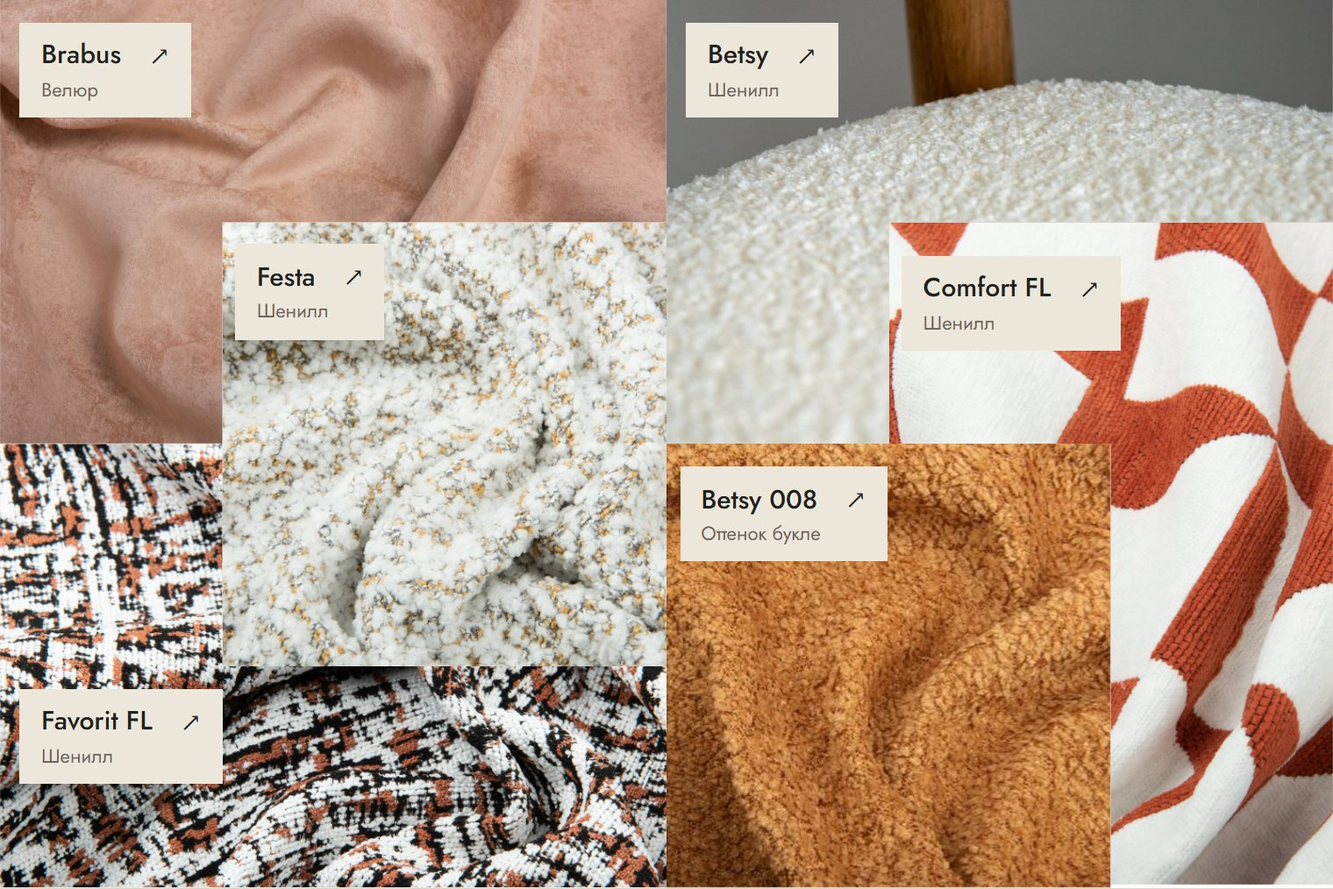
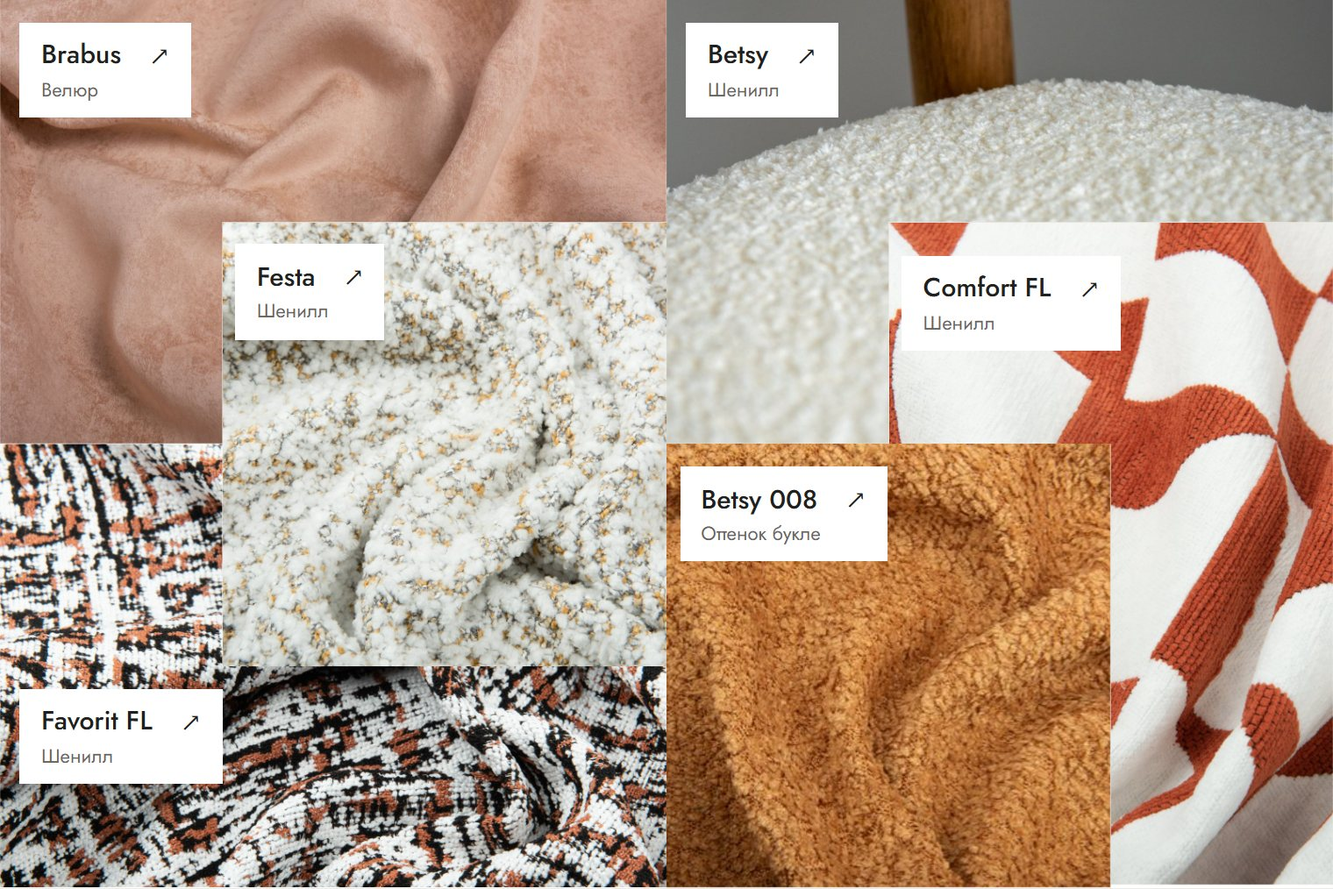
Вариант 4: белый фон

diff --git a/v4/index.html b/v4/index.html
@@ -1,1 +1,1 @@
-<!doctype html><html lang="ru"><head><meta charset="utf-8"><meta name="viewport" content="width=device-width,initial-scale=1"><meta name="robots" content="noindex,nofollow"><meta name="theme-color" content="#ede6da"><title>Fabric’s — текстильная мозаика · вариант 4</title><link rel="stylesheet" href="style.css"><link rel="stylesheet" href="mosaic.css"><link rel="stylesheet" href="accent-v4.css"></head><body id="top"><header class="header"><div class="wrap header-in"><a href="#top" class="logo" aria-label="Fabric’s — начало"><img src="assets/brand/logo_black.svg" alt="Fabric’s"></a><nav class="nav" aria-label="Основная навигация"><a href="#catalog">Коллекции</a><a href="#material">Ткань в деталях</a><a href="#samples">Образцы вживую</a></nav><button type="button" class="selection-button open-board">Моя подборка <b class="board-count">0</b></button><button class="menu-button" id="menu-button" type="button" aria-label="Открыть меню" aria-controls="mobile-nav" aria-expanded="false">☰</button></div></header><nav id="mobile-nav" class="mobile-nav" hidden aria-label="Мобильная навигация"><a href="#catalog">Коллекции</a><a href="#material">Ткань в деталях</a><a href="#samples">Образцы вживую</a></nav><main><section class="wrap mosaic-hero"><div class="mosaic-copy"><p class="eyebrow">Fabric’s / Текстильная мозаика</p><h1>СОБЕРИТЕ<br>СВОЙ<br><em>характер.</em></h1><p class="lead">Мебельные ткани, которые складываются в ваш интерьер. Выберите фактуру, рассмотрите оттенки и соберите свою подборку.</p><div class="actions"><a class="btn primary" href="#catalog">Выбрать ткань <span class="arrow" aria-hidden="true">↗</span></a><a class="btn" href="#samples">Посмотреть образцы</a></div></div><div class="mosaic-layout"><div class="mosaic-board" role="group" aria-label="Мозаика коллекций ткани"><button class="mosaic-piece" type="button" data-mosaic-name="Brabus" style="left:0%;top:0%;width:50%;height:50%;clip-path:polygon(0% 0%,33.33333333333333% 0%,66.66666666666666% 0%,100% 0%,100% 50%,66.66666666666666% 50%,33.33333333333333% 50%,33.33333333333333% 100%,0% 100%,0% 50%);--piece-delay:0ms" aria-label="Открыть Brabus и посмотреть оттенки"><img class="mosaic-image" src="assets/brand_photos/Brabus_IMG_7314.jpg" alt=""><span class="mosaic-tag" style="left:3%;top:5%"><strong>Brabus</strong><small>Велюр</small></span></button><button class="mosaic-piece" type="button" data-mosaic-name="Betsy" style="left:50%;top:0%;width:50%;height:50%;clip-path:polygon(0% 0%,33.33333333333333% 0%,66.66666666666666% 0%,100% 0%,100% 50%,66.66666666666666% 50%,33.33333333333333% 50%,33.33333333333333% 100%,0% 100%,0% 50%);--piece-delay:55ms" aria-label="Открыть Betsy и посмотреть оттенки"><img class="mosaic-image" src="assets/brand_photos/Betsy_DSC_2641.jpg" alt=""><span class="mosaic-tag" style="left:3%;top:5%"><strong>Betsy</strong><small>Шенилл</small></span></button><button class="mosaic-piece" type="button" data-mosaic-name="Festa" style="left:16.666666666666664%;top:25%;width:33.33333333333333%;height:50%;clip-path:polygon(0% 0%,50% 0%,100% 0%,100% 50%,100% 100%,50% 100%,0% 100%,0% 50%);--piece-delay:110ms" aria-label="Открыть Festa и посмотреть оттенки"><img class="mosaic-image" src="assets/brand_photos/Festa_DSC_2971.jpg" alt=""><span class="mosaic-tag" style="left:3%;top:5%"><strong>Festa</strong><small>Шенилл</small></span></button><button class="mosaic-piece" type="button" data-mosaic-name="Comfort FL" style="left:66.66666666666666%;top:25%;width:33.33333333333333%;height:75%;clip-path:polygon(0% 0%,50% 0%,100% 0%,100% 33.33333333333333%,100% 66.66666666666666%,100% 100%,50% 100%,50% 66.66666666666666%,50% 33.33333333333333%,0% 33.33333333333333%);--piece-delay:165ms" aria-label="Открыть Comfort FL и посмотреть оттенки"><img class="mosaic-image" src="assets/brand_photos/Comfort_FL_DSC_2892.jpg" alt=""><span class="mosaic-tag" style="left:3%;top:5%"><strong>Comfort FL</strong><small>Шенилл</small></span></button><button class="mosaic-piece" type="button" data-mosaic-name="Favorit FL" style="left:0%;top:50%;width:50%;height:50%;clip-path:polygon(0% 0%,33.33333333333333% 0%,33.33333333333333% 50%,66.66666666666666% 50%,100% 50%,100% 100%,66.66666666666666% 100%,33.33333333333333% 100%,0% 100%,0% 50%);--piece-delay:220ms" aria-label="Открыть Favorit FL и посмотреть оттенки"><img class="mosaic-image" src="assets/brand_photos/Favorit_FL_DSC_2937.jpg" alt=""><span class="mosaic-tag" style="left:3%;top:55%"><strong>Favorit FL</strong><small>Шенилл</small></span></button><button class="mosaic-piece" type="button" data-mosaic-name="Betsy" data-mosaic-shade="008" style="left:50%;top:50%;width:33.33333333333333%;height:50%;clip-path:polygon(0% 0%,50% 0%,100% 0%,100% 50%,100% 100%,50% 100%,0% 100%,0% 50%);--piece-delay:275ms" aria-label="Открыть Betsy 008 и посмотреть оттенки"><img class="mosaic-image" src="assets/betsy/008_draped.jpg" alt=""><span class="mosaic-tag" style="left:3%;top:5%"><strong>Betsy 008</strong><small>Оттенок букле</small></span></button></div><div class="mosaic-caption"><span>Каждый блок — своя фактура</span><span>Откройте коллекцию, чтобы выбрать оттенок ↗</span></div></div></section><section class="section wrap" id="catalog"><div class="section-title"><div><p class="index-label">01 / НАЙТИ СВОЮ ФАКТУРУ</p><h2>Коллекции в фокусе</h2></div><p>От спокойного букле до выразительного рисунка. Откройте коллекцию и выберите оттенки.</p></div><div class="catalog-tools"><div class="filters" aria-label="Фильтр коллекций"><button data-filter="all" type="button" aria-pressed="true">Все</button><button data-filter="texture" type="button" aria-pressed="false">Мягкие фактуры</button><button data-filter="velvet" type="button" aria-pressed="false">Велюр</button><button data-filter="pattern" type="button" aria-pressed="false">С рисунком</button></div><form class="search" id="search-form" role="search"><input id="search" type="search" aria-label="Найти коллекцию" placeholder="Название или вид ткани"><button aria-label="Найти" type="submit">⌕</button></form></div><div id="grid" class="grid"></div><p id="empty" class="empty" hidden role="status">Таких коллекций в подборке нет. Попробуйте другое название или выберите «Все».</p><div class="catalog-bottom"><span id="result-count" aria-live="polite"></span><span>Весь каталог из 54 коллекций — на новом сайте</span></div></section><section class="story" id="material"><div class="wrap section story-layout"><figure class="story-photo reveal"><img loading="lazy" src="assets/brand_photos/Comfort_FL_DSC_3168.jpg" alt="Ткань Comfort FL, сложенная стопкой"><figcaption>Comfort FL / ткань, которую хочется потрогать</figcaption></figure><div class="story-text reveal"><p class="eyebrow">02 / МАТЕРИАЛ В ЖИЗНИ</p><h2 class="quote">Сначала прикоснуться.<br>Потом — выбрать.</h2><p>На экране можно рассмотреть переплетение и сравнить оттенки. Образец поможет почувствовать мягкость ткани и увидеть цвет при вашем освещении.</p><p>Соберите понравившиеся оттенки в подборку — её удобно взять на встречу с консультантом.</p><button class="btn open-board" type="button">Открыть мою подборку <span class="arrow" aria-hidden="true">↗</span></button></div></div></section><section id="samples" class="section wrap"><div class="section-title"><div><p class="index-label">03 / ОТ ИДЕИ К ВАШЕЙ МЕБЕЛИ</p><h2>Выбор начинается<br>с образца</h2></div><p>Образцы коллекций можно посмотреть у дилеров Fabric’s в разных областях Беларуси.</p></div><div class="steps"><article class="step reveal"><b>01</b><h3>Найдите фактуру</h3><p>Сравните ткани по внешнему виду и характеристикам. Откройте несколько коллекций.</p></article><article class="step reveal"><b>02</b><h3>Соберите оттенки</h3><p>Добавьте подходящие образцы в подборку и скопируйте список для консультанта.</p></article><article class="step reveal"><b>03</b><h3>Посмотрите вживую</h3><p>Уточните у команды, где посмотреть выбранные образцы и как оформить заказ.</p><a href="mailto:info@ffm.by">Связаться с Fabric’s ↗</a></article></div></section><div class="wrap facts-end"><div class="facts"><span><b>54</b>коллекции тканей</span><span><b>861</b>оттенок в каталоге</span><span><b>8</b>дилеров в Беларуси</span></div></div></main><footer class="footer"><div class="wrap"><div class="footer-grid"><div><a class="logo" href="#top"><img src="assets/brand/logo_white.svg" alt="Fabric’s"></a><p>Ткани и экокожа для мебели.<br>Для дома, общественных пространств и ваших идей.</p></div><div><a href="#catalog">Коллекции</a><a href="#material">Ткань в деталях</a><a href="#samples">Образцы вживую</a></div><div><a href="mailto:info@ffm.by">info@ffm.by</a><a href="tel:+375296259965">+375 29 625 99 65</a></div></div><div class="fine"><span>Вариант 4 · Текстильная мозаика · 30.10.2026</span><span>Фотографии Fabric’s · данные каталога на 26.10.2026</span></div></div></footer><dialog id="detail" aria-labelledby="detail-name"><button type="button" class="dialog-close" data-close aria-label="Закрыть коллекцию">×</button><div class="detail-layout"><div class="detail-photo"><img id="detail-photo" alt=""></div><div class="detail-body"><p class="eyebrow" id="detail-category"></p><h2 id="detail-name"></h2><p id="detail-description"></p><div class="detail-name" id="shade-name"></div><div class="shade-grid" id="shades"></div><button class="btn primary" type="button" id="add-sample">Добавить образец +</button><div class="specs" id="specs"></div><p class="external" id="catalog-link">Полная страница коллекции — на новом сайте</p></div></div></dialog><dialog id="board" aria-labelledby="board-title"><button type="button" class="dialog-close" data-close aria-label="Закрыть подборку">×</button><div class="board-body"><p class="eyebrow">ВАШИ МАТЕРИАЛЫ</p><h2 id="board-title">Моя подборка</h2><p>Сохраните названия коллекций и номера оттенков. Готовый список можно передать консультанту.</p><p id="board-empty">Пока здесь пусто. Откройте коллекцию и добавьте понравившийся оттенок.</p><div id="board-items"></div><button id="copy" class="btn primary" type="button">Скопировать список ↗</button><p id="copy-status" class="copy-status" role="status"></p></div></dialog><script type="application/json" id="data">[{"name":"Brabus","group":"velvet","description":"Велюр с мягким ворсом и характерной игрой света.","index":"01","cat":"Велюр","href":"https://catalog.ffm.by/collections/velour/brabus","totalShades":30,"specs":{"composition":"100% Полиэстер","martindale":"100 000 циклов","width":"140 +/- 2 см","density":"480 гр/м.кв."},"photo":"assets/brand_photos/Brabus_IMG_7312.jpg","shades":[{"label":"1","flat":"assets/68yBhmNtJbd.jpg","draped":"assets/AcpM5PKd6ey.jpg"},{"label":"2","flat":"assets/BHJ1Fyk4ANf.jpg","draped":"assets/2fdezL4SlyB.jpg"},{"label":"3","flat":"assets/MF28bZw3nco.jpg","draped":"assets/dkE8RPS6Aea.jpg"},{"label":"4","flat":"assets/cxxRksPBcmh.jpg","draped":"assets/kGQZ5zbik7S.jpg"},{"label":"5","flat":"assets/WvmrWXStRBg.jpg","draped":"assets/5Xm3thjydPZ.jpg"},{"label":"6","flat":"assets/huwuX3Bytcd.jpg","draped":"assets/IOPoNtSFOej.jpg"},{"label":"7","flat":"assets/emMPldZV9MZ.jpg","draped":"assets/3t6cvB5sw0U.jpg"},{"label":"8","flat":"assets/q2L9ht2QMjz.jpg","draped":"assets/1cVaC4N7qWV.jpg"},{"label":"9","flat":"assets/8ReMaghEupU.jpg","draped":"assets/IBQUtiR2kHJ.jpg"},{"label":"10","flat":"assets/KD74NvC5GRr.jpg","draped":"assets/loEXWwWyFH3.jpg"},{"label":"11","flat":"assets/gVVtwkj0Kk2.jpg","draped":"assets/EsHc2T8Y7l1.jpg"},{"label":"12","flat":"assets/CO3c3ajxV4K.jpg","draped":"assets/uGMPmMphM3T.jpg"},{"label":"13","flat":"assets/rTX41ZVM3hr.jpg","draped":"assets/a55D1oxTIhU.jpg"},{"label":"14","flat":"assets/oAA8BiZQQOm.jpg","draped":"assets/LoEB1niXhKf.jpg"},{"label":"15","flat":"assets/7Bo8FwcByjp.jpg","draped":"assets/bCfpE9e1G4s.jpg"},{"label":"16","flat":"assets/YZDIkroWT0P.jpg","draped":"assets/UFI61tSL6Hm.jpg"},{"label":"17","flat":"assets/LIuugSAndNU.jpg","draped":"assets/xrOQKmYY0Wy.jpg"},{"label":"18","flat":"assets/lU8BbPIQ75Y.jpg","draped":"assets/lK2IwVNcXSb.jpg"},{"label":"19","flat":"assets/WV1X2tJdMn9.jpg","draped":"assets/ZxnduSdrRNx.jpg"},{"label":"20","flat":"assets/HM7FSiqnMA9.jpg","draped":"assets/Eqj1UYGJPhl.jpg"},{"label":"21","flat":"assets/pHNwGDBhrCk.jpg","draped":"assets/8o88MtJhdiS.jpg"},{"label":"22","flat":"assets/6HC5lCp19fZ.jpg","draped":"assets/1pX3PPDHcOW.jpg"},{"label":"23","flat":"assets/GIsXyAXY4np.jpg","draped":"assets/i1noCQRFRh1.jpg"},{"label":"24","flat":"assets/4CEVBKRXlBa.jpg","draped":"assets/y41x9onWPJt.jpg"},{"label":"25","flat":"assets/q0FiK6IdSjB.jpg","draped":"assets/ln1NDp9maI6.jpg"},{"label":"26","flat":"assets/zNaU6ahGxqI.jpg","draped":"assets/m1Z1ctisSiJ.jpg"},{"label":"27","flat":"assets/Sw5mJhbCPZj.jpg","draped":"assets/AY3kISqClLU.jpg"},{"label":"28","flat":"assets/jEX6PUnvC1Q.jpg","draped":"assets/PIxEoEQJCmT.jpg"},{"label":"29","flat":"assets/3RWBJscCJxF.jpg","draped":"assets/HU9mc4i8dBr.jpg"},{"label":"30","flat":"assets/1tdoNtP5J8F.jpg","draped":"assets/fhWvoHJdDX1.jpg"}]},{"name":"Betsy","group":"texture","description":"Букле на флисовой основе. Мелкая фактура и палитра для спокойных интерьеров.","index":"02","cat":"Шенилл","href":"https://catalog.ffm.by/collections/%D1%81henille/betsy","totalShades":15,"specs":{"composition":"100% полиэстер","martindale":"80 000 циклов","width":"140 +/- 2 см","density":"510 гр/м.кв."},"photo":"assets/brand_photos/Betsy_DSC_2641.jpg","shades":[{"label":"001","flat":"assets/betsy/001_flat.jpg","draped":"assets/betsy/001_draped.jpg"},{"label":"002","flat":"assets/betsy/002_flat.jpg","draped":"assets/betsy/002_draped.jpg"},{"label":"003","flat":"assets/betsy/003_flat.jpg","draped":"assets/betsy/003_draped.jpg"},{"label":"004","flat":"assets/betsy/004_flat.jpg","draped":"assets/betsy/004_draped.jpg"},{"label":"005","flat":"assets/betsy/005_flat.jpg","draped":"assets/betsy/005_draped.jpg"},{"label":"006","flat":"assets/betsy/006_flat.jpg","draped":"assets/betsy/006_draped.jpg"},{"label":"007","flat":"assets/betsy/007_flat.jpg","draped":"assets/betsy/007_draped.jpg"},{"label":"008","flat":"assets/betsy/008_flat.jpg","draped":"assets/betsy/008_draped.jpg"},{"label":"009","flat":"assets/betsy/009_flat.jpg","draped":"assets/betsy/009_draped.jpg"},{"label":"010","flat":"assets/betsy/010_flat.jpg","draped":"assets/betsy/010_draped.jpg"},{"label":"011","flat":"assets/betsy/011_flat.jpg","draped":"assets/betsy/011_draped.jpg"},{"label":"012","flat":"assets/betsy/012_flat.jpg","draped":"assets/betsy/012_draped.jpg"},{"label":"013","flat":"assets/betsy/013_flat.jpg","draped":"assets/betsy/013_draped.jpg"},{"label":"014","flat":"assets/betsy/014_flat.jpg","draped":"assets/betsy/014_draped.jpg"},{"label":"015","flat":"assets/betsy/015_flat.jpg","draped":"assets/betsy/015_draped.jpg"}]},{"name":"Festa","group":"texture","description":"Рельефное переплетение с мелкими цветными вкраплениями.","index":"03","cat":"Шенилл","href":"https://catalog.ffm.by/collections/%D1%81henille/festa","totalShades":6,"specs":{"composition":"100% полиэстер","martindale":"120 000 циклов","width":"140 +/- 2 см","density":"700 гр/м.кв."},"photo":"assets/brand_photos/Festa_DSC_3090.jpg","shades":[{"label":"1","flat":"assets/bXqbhzA6EHF.jpg","draped":"assets/UaCdRR8ijOU.jpg"},{"label":"2","flat":"assets/AMGe37fTVQR.jpg","draped":"assets/Wil9k7xggf6.jpg"},{"label":"3","flat":"assets/GcdiHe6XS2w.jpg","draped":"assets/t0aC6W0veHK.jpg"},{"label":"4","flat":"assets/KD4t7nBjXao.jpg","draped":"assets/7fNJUu1zCES.jpg"},{"label":"5","flat":"assets/t42LXaEx5i1.jpg","draped":"assets/4s2EZQygeT1.jpg"},{"label":"6","flat":"assets/oHJVsiZdmm3.jpg","draped":"assets/MRoCJkLwf03.jpg"}]},{"name":"Comfort FL","group":"pattern","description":"Геометрический рисунок и выразительная тканая фактура.","index":"04","cat":"Шенилл","href":"https://catalog.ffm.by/collections/%D1%81henille/comfort-fl","totalShades":5,"specs":{"composition":"100% полиэстер","martindale":"100 000 циклов","width":"140 +/- 2 см","density":"620 гр/м.кв."},"photo":"assets/brand_photos/Comfort_FL_DSC_2918.jpg","shades":[{"label":"100","flat":"assets/1o1ODz5paly.jpg","draped":"assets/1fH6MVNd4vd.jpg"},{"label":"200","flat":"assets/5IkQLxvgnLS.jpg","draped":"assets/BKFRAtqTn2M.jpg"},{"label":"300","flat":"assets/xxeIkOEFQh7.jpg","draped":"assets/TQU1MazxryY.jpg"},{"label":"400","flat":"assets/4Y0vTivGf57.jpg","draped":"assets/MVASV8leIuh.jpg"},{"label":"500","flat":"assets/7jXgarknLcI.jpg","draped":"assets/0C4IFl9RxXV.jpg"}]},{"name":"Favorit FL","group":"pattern","description":"Многоцветное переплетение для мебели с характером.","index":"05","cat":"Шенилл","href":"https://catalog.ffm.by/collections/%D1%81henille/favorit-fl","totalShades":5,"specs":{"composition":"100% полиэстер","martindale":"100 000 циклов","width":"140 +/- 2 см","density":"580 гр/м.кв."},"photo":"assets/brand_photos/Favorit_FL_DSC_2933.jpg","shades":[{"label":"100","flat":"assets/WZsSqYdA60F.jpg","draped":"assets/kXdiDEdL5lB.jpg"},{"label":"200","flat":"assets/ZEoxnFmn0nk.jpg","draped":"assets/ZWDZAOKXigc.jpg"},{"label":"300","flat":"assets/m9eBKYvji6z.jpg","draped":"assets/H2qfVND1Akv.jpg"},{"label":"400","flat":"assets/3jyIka899o0.jpg","draped":"assets/08MBXbIhUgl.jpg"},{"label":"500","flat":"assets/xhybBo0VfQY.jpg","draped":"assets/eEIRvUcpxzK.jpg"}]},{"name":"Lucky","group":"texture","description":"Коллекция мебельной ткани с широкой палитрой оттенков.","index":"06","cat":"Шенилл","href":"https://catalog.ffm.by/collections/%D1%81henille/lucky","totalShades":19,"specs":{"composition":"100% полиэстер","martindale":"100 000 циклов","width":"140 +/- 2 см","density":"420 гр/м.кв."},"photo":"assets/DvWnTEE6qoG.jpg","shades":[{"label":"2","flat":"assets/fDdqqQSILXX.jpg","draped":"assets/S54toQZCyao.jpg"},{"label":"3","flat":"assets/vWOBZXCn4qp.jpg","draped":"assets/Mx17tL8GeiS.jpg"},{"label":"4","flat":"assets/dGQPStbXrRm.jpg","draped":"assets/mX11dfktzPG.jpg"},{"label":"5","flat":"assets/XuvNH1U3X9c.jpg","draped":"assets/bZtfidU6rhF.jpg"},{"label":"6","flat":"assets/vOQGIFGYUyl.jpg","draped":"assets/fbIlqGeu8Zf.jpg"},{"label":"7","flat":"assets/919OcaaewHw.jpg","draped":"assets/DvWnTEE6qoG.jpg"}]}]</script><script src="app.js"></script></body></html>
+<!doctype html><html lang="ru"><head><meta charset="utf-8"><meta name="viewport" content="width=device-width,initial-scale=1"><meta name="robots" content="noindex,nofollow"><meta name="theme-color" content="#ffffff"><title>Fabric’s — текстильная мозаика · вариант 4</title><link rel="stylesheet" href="style.css"><link rel="stylesheet" href="mosaic.css"><link rel="stylesheet" href="accent-v4.css"></head><body id="top"><header class="header"><div class="wrap header-in"><a href="#top" class="logo" aria-label="Fabric’s — начало"><img src="assets/brand/logo_black.svg" alt="Fabric’s"></a><nav class="nav" aria-label="Основная навигация"><a href="#catalog">Коллекции</a><a href="#material">Ткань в деталях</a><a href="#samples">Образцы вживую</a></nav><button type="button" class="selection-button open-board">Моя подборка <b class="board-count">0</b></button><button class="menu-button" id="menu-button" type="button" aria-label="Открыть меню" aria-controls="mobile-nav" aria-expanded="false">☰</button></div></header><nav id="mobile-nav" class="mobile-nav" hidden aria-label="Мобильная навигация"><a href="#catalog">Коллекции</a><a href="#material">Ткань в деталях</a><a href="#samples">Образцы вживую</a></nav><main><section class="wrap mosaic-hero"><div class="mosaic-copy"><p class="eyebrow">Fabric’s / Текстильная мозаика</p><h1>СОБЕРИТЕ<br>СВОЙ<br><em>характер.</em></h1><p class="lead">Мебельные ткани, которые складываются в ваш интерьер. Выберите фактуру, рассмотрите оттенки и соберите свою подборку.</p><div class="actions"><a class="btn primary" href="#catalog">Выбрать ткань <span class="arrow" aria-hidden="true">↗</span></a><a class="btn" href="#samples">Посмотреть образцы</a></div></div><div class="mosaic-layout"><div class="mosaic-board" role="group" aria-label="Мозаика коллекций ткани"><button class="mosaic-piece" type="button" data-mosaic-name="Brabus" style="left:0%;top:0%;width:50%;height:50%;clip-path:polygon(0% 0%,33.33333333333333% 0%,66.66666666666666% 0%,100% 0%,100% 50%,66.66666666666666% 50%,33.33333333333333% 50%,33.33333333333333% 100%,0% 100%,0% 50%);--piece-delay:0ms" aria-label="Открыть Brabus и посмотреть оттенки"><img class="mosaic-image" src="assets/brand_photos/Brabus_IMG_7314.jpg" alt=""><span class="mosaic-tag" style="left:3%;top:5%"><strong>Brabus</strong><small>Велюр</small></span></button><button class="mosaic-piece" type="button" data-mosaic-name="Betsy" style="left:50%;top:0%;width:50%;height:50%;clip-path:polygon(0% 0%,33.33333333333333% 0%,66.66666666666666% 0%,100% 0%,100% 50%,66.66666666666666% 50%,33.33333333333333% 50%,33.33333333333333% 100%,0% 100%,0% 50%);--piece-delay:55ms" aria-label="Открыть Betsy и посмотреть оттенки"><img class="mosaic-image" src="assets/brand_photos/Betsy_DSC_2641.jpg" alt=""><span class="mosaic-tag" style="left:3%;top:5%"><strong>Betsy</strong><small>Шенилл</small></span></button><button class="mosaic-piece" type="button" data-mosaic-name="Festa" style="left:16.666666666666664%;top:25%;width:33.33333333333333%;height:50%;clip-path:polygon(0% 0%,50% 0%,100% 0%,100% 50%,100% 100%,50% 100%,0% 100%,0% 50%);--piece-delay:110ms" aria-label="Открыть Festa и посмотреть оттенки"><img class="mosaic-image" src="assets/brand_photos/Festa_DSC_2971.jpg" alt=""><span class="mosaic-tag" style="left:3%;top:5%"><strong>Festa</strong><small>Шенилл</small></span></button><button class="mosaic-piece" type="button" data-mosaic-name="Comfort FL" style="left:66.66666666666666%;top:25%;width:33.33333333333333%;height:75%;clip-path:polygon(0% 0%,50% 0%,100% 0%,100% 33.33333333333333%,100% 66.66666666666666%,100% 100%,50% 100%,50% 66.66666666666666%,50% 33.33333333333333%,0% 33.33333333333333%);--piece-delay:165ms" aria-label="Открыть Comfort FL и посмотреть оттенки"><img class="mosaic-image" src="assets/brand_photos/Comfort_FL_DSC_2892.jpg" alt=""><span class="mosaic-tag" style="left:3%;top:5%"><strong>Comfort FL</strong><small>Шенилл</small></span></button><button class="mosaic-piece" type="button" data-mosaic-name="Favorit FL" style="left:0%;top:50%;width:50%;height:50%;clip-path:polygon(0% 0%,33.33333333333333% 0%,33.33333333333333% 50%,66.66666666666666% 50%,100% 50%,100% 100%,66.66666666666666% 100%,33.33333333333333% 100%,0% 100%,0% 50%);--piece-delay:220ms" aria-label="Открыть Favorit FL и посмотреть оттенки"><img class="mosaic-image" src="assets/brand_photos/Favorit_FL_DSC_2937.jpg" alt=""><span class="mosaic-tag" style="left:3%;top:55%"><strong>Favorit FL</strong><small>Шенилл</small></span></button><button class="mosaic-piece" type="button" data-mosaic-name="Betsy" data-mosaic-shade="008" style="left:50%;top:50%;width:33.33333333333333%;height:50%;clip-path:polygon(0% 0%,50% 0%,100% 0%,100% 50%,100% 100%,50% 100%,0% 100%,0% 50%);--piece-delay:275ms" aria-label="Открыть Betsy 008 и посмотреть оттенки"><img class="mosaic-image" src="assets/betsy/008_draped.jpg" alt=""><span class="mosaic-tag" style="left:3%;top:5%"><strong>Betsy 008</strong><small>Оттенок букле</small></span></button></div><div class="mosaic-caption"><span>Каждый блок — своя фактура</span><span>Откройте коллекцию, чтобы выбрать оттенок ↗</span></div></div></section><section class="section wrap" id="catalog"><div class="section-title"><div><p class="index-label">01 / НАЙТИ СВОЮ ФАКТУРУ</p><h2>Коллекции в фокусе</h2></div><p>От спокойного букле до выразительного рисунка. Откройте коллекцию и выберите оттенки.</p></div><div class="catalog-tools"><div class="filters" aria-label="Фильтр коллекций"><button data-filter="all" type="button" aria-pressed="true">Все</button><button data-filter="texture" type="button" aria-pressed="false">Мягкие фактуры</button><button data-filter="velvet" type="button" aria-pressed="false">Велюр</button><button data-filter="pattern" type="button" aria-pressed="false">С рисунком</button></div><form class="search" id="search-form" role="search"><input id="search" type="search" aria-label="Найти коллекцию" placeholder="Название или вид ткани"><button aria-label="Найти" type="submit">⌕</button></form></div><div id="grid" class="grid"></div><p id="empty" class="empty" hidden role="status">Таких коллекций в подборке нет. Попробуйте другое название или выберите «Все».</p><div class="catalog-bottom"><span id="result-count" aria-live="polite"></span><span>Весь каталог из 54 коллекций — на новом сайте</span></div></section><section class="story" id="material"><div class="wrap section story-layout"><figure class="story-photo reveal"><img loading="lazy" src="assets/brand_photos/Comfort_FL_DSC_3168.jpg" alt="Ткань Comfort FL, сложенная стопкой"><figcaption>Comfort FL / ткань, которую хочется потрогать</figcaption></figure><div class="story-text reveal"><p class="eyebrow">02 / МАТЕРИАЛ В ЖИЗНИ</p><h2 class="quote">Сначала прикоснуться.<br>Потом — выбрать.</h2><p>На экране можно рассмотреть переплетение и сравнить оттенки. Образец поможет почувствовать мягкость ткани и увидеть цвет при вашем освещении.</p><p>Соберите понравившиеся оттенки в подборку — её удобно взять на встречу с консультантом.</p><button class="btn open-board" type="button">Открыть мою подборку <span class="arrow" aria-hidden="true">↗</span></button></div></div></section><section id="samples" class="section wrap"><div class="section-title"><div><p class="index-label">03 / ОТ ИДЕИ К ВАШЕЙ МЕБЕЛИ</p><h2>Выбор начинается<br>с образца</h2></div><p>Образцы коллекций можно посмотреть у дилеров Fabric’s в разных областях Беларуси.</p></div><div class="steps"><article class="step reveal"><b>01</b><h3>Найдите фактуру</h3><p>Сравните ткани по внешнему виду и характеристикам. Откройте несколько коллекций.</p></article><article class="step reveal"><b>02</b><h3>Соберите оттенки</h3><p>Добавьте подходящие образцы в подборку и скопируйте список для консультанта.</p></article><article class="step reveal"><b>03</b><h3>Посмотрите вживую</h3><p>Уточните у команды, где посмотреть выбранные образцы и как оформить заказ.</p><a href="mailto:info@ffm.by">Связаться с Fabric’s ↗</a></article></div></section><div class="wrap facts-end"><div class="facts"><span><b>54</b>коллекции тканей</span><span><b>861</b>оттенок в каталоге</span><span><b>8</b>дилеров в Беларуси</span></div></div></main><footer class="footer"><div class="wrap"><div class="footer-grid"><div><a class="logo" href="#top"><img src="assets/brand/logo_white.svg" alt="Fabric’s"></a><p>Ткани и экокожа для мебели.<br>Для дома, общественных пространств и ваших идей.</p></div><div><a href="#catalog">Коллекции</a><a href="#material">Ткань в деталях</a><a href="#samples">Образцы вживую</a></div><div><a href="mailto:info@ffm.by">info@ffm.by</a><a href="tel:+375296259965">+375 29 625 99 65</a></div></div><div class="fine"><span>Вариант 4 · Текстильная мозаика · 30.10.2026</span><span>Фотографии Fabric’s · данные каталога на 26.10.2026</span></div></div></footer><dialog id="detail" aria-labelledby="detail-name"><button type="button" class="dialog-close" data-close aria-label="Закрыть коллекцию">×</button><div class="detail-layout"><div class="detail-photo"><img id="detail-photo" alt=""></div><div class="detail-body"><p class="eyebrow" id="detail-category"></p><h2 id="detail-name"></h2><p id="detail-description"></p><div class="detail-name" id="shade-name"></div><div class="shade-grid" id="shades"></div><button class="btn primary" type="button" id="add-sample">Добавить образец +</button><div class="specs" id="specs"></div><p class="external" id="catalog-link">Полная страница коллекции — на новом сайте</p></div></div></dialog><dialog id="board" aria-labelledby="board-title"><button type="button" class="dialog-close" data-close aria-label="Закрыть подборку">×</button><div class="board-body"><p class="eyebrow">ВАШИ МАТЕРИАЛЫ</p><h2 id="board-title">Моя подборка</h2><p>Сохраните названия коллекций и номера оттенков. Готовый список можно передать консультанту.</p><p id="board-empty">Пока здесь пусто. Откройте коллекцию и добавьте понравившийся оттенок.</p><div id="board-items"></div><button id="copy" class="btn primary" type="button">Скопировать список ↗</button><p id="copy-status" class="copy-status" role="status"></p></div></dialog><script type="application/json" id="data">[{"name":"Brabus","group":"velvet","description":"Велюр с мягким ворсом и характерной игрой света.","index":"01","cat":"Велюр","href":"https://catalog.ffm.by/collections/velour/brabus","totalShades":30,"specs":{"composition":"100% Полиэстер","martindale":"100 000 циклов","width":"140 +/- 2 см","density":"480 гр/м.кв."},"photo":"assets/brand_photos/Brabus_IMG_7312.jpg","shades":[{"label":"1","flat":"assets/68yBhmNtJbd.jpg","draped":"assets/AcpM5PKd6ey.jpg"},{"label":"2","flat":"assets/BHJ1Fyk4ANf.jpg","draped":"assets/2fdezL4SlyB.jpg"},{"label":"3","flat":"assets/MF28bZw3nco.jpg","draped":"assets/dkE8RPS6Aea.jpg"},{"label":"4","flat":"assets/cxxRksPBcmh.jpg","draped":"assets/kGQZ5zbik7S.jpg"},{"label":"5","flat":"assets/WvmrWXStRBg.jpg","draped":"assets/5Xm3thjydPZ.jpg"},{"label":"6","flat":"assets/huwuX3Bytcd.jpg","draped":"assets/IOPoNtSFOej.jpg"},{"label":"7","flat":"assets/emMPldZV9MZ.jpg","draped":"assets/3t6cvB5sw0U.jpg"},{"label":"8","flat":"assets/q2L9ht2QMjz.jpg","draped":"assets/1cVaC4N7qWV.jpg"},{"label":"9","flat":"assets/8ReMaghEupU.jpg","draped":"assets/IBQUtiR2kHJ.jpg"},{"label":"10","flat":"assets/KD74NvC5GRr.jpg","draped":"assets/loEXWwWyFH3.jpg"},{"label":"11","flat":"assets/gVVtwkj0Kk2.jpg","draped":"assets/EsHc2T8Y7l1.jpg"},{"label":"12","flat":"assets/CO3c3ajxV4K.jpg","draped":"assets/uGMPmMphM3T.jpg"},{"label":"13","flat":"assets/rTX41ZVM3hr.jpg","draped":"assets/a55D1oxTIhU.jpg"},{"label":"14","flat":"assets/oAA8BiZQQOm.jpg","draped":"assets/LoEB1niXhKf.jpg"},{"label":"15","flat":"assets/7Bo8FwcByjp.jpg","draped":"assets/bCfpE9e1G4s.jpg"},{"label":"16","flat":"assets/YZDIkroWT0P.jpg","draped":"assets/UFI61tSL6Hm.jpg"},{"label":"17","flat":"assets/LIuugSAndNU.jpg","draped":"assets/xrOQKmYY0Wy.jpg"},{"label":"18","flat":"assets/lU8BbPIQ75Y.jpg","draped":"assets/lK2IwVNcXSb.jpg"},{"label":"19","flat":"assets/WV1X2tJdMn9.jpg","draped":"assets/ZxnduSdrRNx.jpg"},{"label":"20","flat":"assets/HM7FSiqnMA9.jpg","draped":"assets/Eqj1UYGJPhl.jpg"},{"label":"21","flat":"assets/pHNwGDBhrCk.jpg","draped":"assets/8o88MtJhdiS.jpg"},{"label":"22","flat":"assets/6HC5lCp19fZ.jpg","draped":"assets/1pX3PPDHcOW.jpg"},{"label":"23","flat":"assets/GIsXyAXY4np.jpg","draped":"assets/i1noCQRFRh1.jpg"},{"label":"24","flat":"assets/4CEVBKRXlBa.jpg","draped":"assets/y41x9onWPJt.jpg"},{"label":"25","flat":"assets/q0FiK6IdSjB.jpg","draped":"assets/ln1NDp9maI6.jpg"},{"label":"26","flat":"assets/zNaU6ahGxqI.jpg","draped":"assets/m1Z1ctisSiJ.jpg"},{"label":"27","flat":"assets/Sw5mJhbCPZj.jpg","draped":"assets/AY3kISqClLU.jpg"},{"label":"28","flat":"assets/jEX6PUnvC1Q.jpg","draped":"assets/PIxEoEQJCmT.jpg"},{"label":"29","flat":"assets/3RWBJscCJxF.jpg","draped":"assets/HU9mc4i8dBr.jpg"},{"label":"30","flat":"assets/1tdoNtP5J8F.jpg","draped":"assets/fhWvoHJdDX1.jpg"}]},{"name":"Betsy","group":"texture","description":"Букле на флисовой основе. Мелкая фактура и палитра для спокойных интерьеров.","index":"02","cat":"Шенилл","href":"https://catalog.ffm.by/collections/%D1%81henille/betsy","totalShades":15,"specs":{"composition":"100% полиэстер","martindale":"80 000 циклов","width":"140 +/- 2 см","density":"510 гр/м.кв."},"photo":"assets/brand_photos/Betsy_DSC_2641.jpg","shades":[{"label":"001","flat":"assets/betsy/001_flat.jpg","draped":"assets/betsy/001_draped.jpg"},{"label":"002","flat":"assets/betsy/002_flat.jpg","draped":"assets/betsy/002_draped.jpg"},{"label":"003","flat":"assets/betsy/003_flat.jpg","draped":"assets/betsy/003_draped.jpg"},{"label":"004","flat":"assets/betsy/004_flat.jpg","draped":"assets/betsy/004_draped.jpg"},{"label":"005","flat":"assets/betsy/005_flat.jpg","draped":"assets/betsy/005_draped.jpg"},{"label":"006","flat":"assets/betsy/006_flat.jpg","draped":"assets/betsy/006_draped.jpg"},{"label":"007","flat":"assets/betsy/007_flat.jpg","draped":"assets/betsy/007_draped.jpg"},{"label":"008","flat":"assets/betsy/008_flat.jpg","draped":"assets/betsy/008_draped.jpg"},{"label":"009","flat":"assets/betsy/009_flat.jpg","draped":"assets/betsy/009_draped.jpg"},{"label":"010","flat":"assets/betsy/010_flat.jpg","draped":"assets/betsy/010_draped.jpg"},{"label":"011","flat":"assets/betsy/011_flat.jpg","draped":"assets/betsy/011_draped.jpg"},{"label":"012","flat":"assets/betsy/012_flat.jpg","draped":"assets/betsy/012_draped.jpg"},{"label":"013","flat":"assets/betsy/013_flat.jpg","draped":"assets/betsy/013_draped.jpg"},{"label":"014","flat":"assets/betsy/014_flat.jpg","draped":"assets/betsy/014_draped.jpg"},{"label":"015","flat":"assets/betsy/015_flat.jpg","draped":"assets/betsy/015_draped.jpg"}]},{"name":"Festa","group":"texture","description":"Рельефное переплетение с мелкими цветными вкраплениями.","index":"03","cat":"Шенилл","href":"https://catalog.ffm.by/collections/%D1%81henille/festa","totalShades":6,"specs":{"composition":"100% полиэстер","martindale":"120 000 циклов","width":"140 +/- 2 см","density":"700 гр/м.кв."},"photo":"assets/brand_photos/Festa_DSC_3090.jpg","shades":[{"label":"1","flat":"assets/bXqbhzA6EHF.jpg","draped":"assets/UaCdRR8ijOU.jpg"},{"label":"2","flat":"assets/AMGe37fTVQR.jpg","draped":"assets/Wil9k7xggf6.jpg"},{"label":"3","flat":"assets/GcdiHe6XS2w.jpg","draped":"assets/t0aC6W0veHK.jpg"},{"label":"4","flat":"assets/KD4t7nBjXao.jpg","draped":"assets/7fNJUu1zCES.jpg"},{"label":"5","flat":"assets/t42LXaEx5i1.jpg","draped":"assets/4s2EZQygeT1.jpg"},{"label":"6","flat":"assets/oHJVsiZdmm3.jpg","draped":"assets/MRoCJkLwf03.jpg"}]},{"name":"Comfort FL","group":"pattern","description":"Геометрический рисунок и выразительная тканая фактура.","index":"04","cat":"Шенилл","href":"https://catalog.ffm.by/collections/%D1%81henille/comfort-fl","totalShades":5,"specs":{"composition":"100% полиэстер","martindale":"100 000 циклов","width":"140 +/- 2 см","density":"620 гр/м.кв."},"photo":"assets/brand_photos/Comfort_FL_DSC_2918.jpg","shades":[{"label":"100","flat":"assets/1o1ODz5paly.jpg","draped":"assets/1fH6MVNd4vd.jpg"},{"label":"200","flat":"assets/5IkQLxvgnLS.jpg","draped":"assets/BKFRAtqTn2M.jpg"},{"label":"300","flat":"assets/xxeIkOEFQh7.jpg","draped":"assets/TQU1MazxryY.jpg"},{"label":"400","flat":"assets/4Y0vTivGf57.jpg","draped":"assets/MVASV8leIuh.jpg"},{"label":"500","flat":"assets/7jXgarknLcI.jpg","draped":"assets/0C4IFl9RxXV.jpg"}]},{"name":"Favorit FL","group":"pattern","description":"Многоцветное переплетение для мебели с характером.","index":"05","cat":"Шенилл","href":"https://catalog.ffm.by/collections/%D1%81henille/favorit-fl","totalShades":5,"specs":{"composition":"100% полиэстер","martindale":"100 000 циклов","width":"140 +/- 2 см","density":"580 гр/м.кв."},"photo":"assets/brand_photos/Favorit_FL_DSC_2933.jpg","shades":[{"label":"100","flat":"assets/WZsSqYdA60F.jpg","draped":"assets/kXdiDEdL5lB.jpg"},{"label":"200","flat":"assets/ZEoxnFmn0nk.jpg","draped":"assets/ZWDZAOKXigc.jpg"},{"label":"300","flat":"assets/m9eBKYvji6z.jpg","draped":"assets/H2qfVND1Akv.jpg"},{"label":"400","flat":"assets/3jyIka899o0.jpg","draped":"assets/08MBXbIhUgl.jpg"},{"label":"500","flat":"assets/xhybBo0VfQY.jpg","draped":"assets/eEIRvUcpxzK.jpg"}]},{"name":"Lucky","group":"texture","description":"Коллекция мебельной ткани с широкой палитрой оттенков.","index":"06","cat":"Шенилл","href":"https://catalog.ffm.by/collections/%D1%81henille/lucky","totalShades":19,"specs":{"composition":"100% полиэстер","martindale":"100 000 циклов","width":"140 +/- 2 см","density":"420 гр/м.кв."},"photo":"assets/DvWnTEE6qoG.jpg","shades":[{"label":"2","flat":"assets/fDdqqQSILXX.jpg","draped":"assets/S54toQZCyao.jpg"},{"label":"3","flat":"assets/vWOBZXCn4qp.jpg","draped":"assets/Mx17tL8GeiS.jpg"},{"label":"4","flat":"assets/dGQPStbXrRm.jpg","draped":"assets/mX11dfktzPG.jpg"},{"label":"5","flat":"assets/XuvNH1U3X9c.jpg","draped":"assets/bZtfidU6rhF.jpg"},{"label":"6","flat":"assets/vOQGIFGYUyl.jpg","draped":"assets/fbIlqGeu8Zf.jpg"},{"label":"7","flat":"assets/919OcaaewHw.jpg","draped":"assets/DvWnTEE6qoG.jpg"}]}]</script><script src="app.js"></script></body></html>

diff --git a/v4/accent-v4.css b/v4/accent-v4.css
@@ -1,9 +1,10 @@
-/* 03.11.2026 — вариант 4 «Текстильная мозаика»: тёплый песочный фон и терракотовый акцент (кнопки, активный фильтр,
-   номера шагов) — чтобы вариант не сливался со спокойным молочным вариантом 1. Каталог «Коллекции в фокусе» —
-   мозаикой из плиток разного размера с такими же плашками, как в коллаже первого экрана. Цифры каталога — не на
-   первом экране, а в конце страницы. */
-:root{--paper:#ede6da;--accent:#b5522f;--line:#d5cbbb;--muted:#6b6255}
-.header{background:#ede6daf2}
+/* 03.11.2026 — вариант 4 «Текстильная мозаика»: белый фон и терракотовый акцент (кнопки, активный фильтр, номера шагов).
+   Сначала был тёплый песочный фон; слово Координатора 03.11 — «Белый»: на белом цвет тканей читается точнее, вариант
+   узнаётся по коллажу, жирному заголовку и терракоте. Каталог «Коллекции в фокусе» — мозаикой из плиток разного размера
+   с такими же плашками, как в коллаже первого экрана. Цифры каталога — не на первом экране, а в конце страницы. */
+:root{--paper:#ffffff;--accent:#b5522f;--line:#e6e1d8;--muted:#68645d}
+body{background:#fff}
+.header{background:#fffffff2}
 .btn.primary{background:var(--accent);border-color:var(--accent)}
 .btn.primary:hover{background:#9b4527;border-color:#9b4527}
 .filters button[aria-pressed=true]{background:var(--accent);border-color:var(--accent)}
@@ -17,7 +18,7 @@
 
 @media(min-width:761px){
   .grid{grid-template-columns:repeat(4,1fr);grid-auto-rows:clamp(180px,16.5vw,250px);grid-auto-flow:dense;gap:12px}
-  .card{position:relative;overflow:hidden;background:#d9cfbf}
+  .card{position:relative;overflow:hidden;background:#efebe4}
   .card:nth-child(6n+1){grid-column:span 2;grid-row:span 2}
   .card:nth-child(6n+2){grid-row:span 2}
   .card:nth-child(6n+5),.card:nth-child(6n+6){grid-column:span 2}

diff --git a/review.html b/review.html
@@ -16,7 +16,7 @@
     section{display:grid;grid-template-columns:repeat(5,minmax(0,1fr));gap:24px;margin:48px 0}
     a{color:inherit;text-decoration:none;background:#fff;border:1px solid #dedbd5;display:flex;flex-direction:column;min-width:0}
     a img{display:block;width:100%;aspect-ratio:7/5;object-fit:cover}
-    a .mosaic-preview{object-fit:contain;background:#ede6da;padding:12px}
+    a .mosaic-preview{object-fit:contain;background:#ffffff;padding:12px}
     a div{display:flex;flex-direction:column;flex:1;padding:24px}
     h2{font:400 28px/1.2 Georgia,serif;margin:12px 0}
     a p{font-size:14px;color:#625f59;margin:0 0 24px}
@@ -55,7 +55,7 @@
       </a>
       <a href="v4/">
         <img class="mosaic-preview" src="review-assets/textile-mosaic.jpg" alt="Шесть геометрических фигур из настоящих фотографий тканей">
-        <div><small>Вариант 04</small><h2>Текстильная мозаика</h2><p class="mood">Тепло, смело, современно.</p><p>Песочный фон и терракотовые акценты, ткани складываются в коллаж. Шесть коллекций, выбор оттенка и своя подборка.</p><strong>Открыть макет ↗</strong></div>
+        <div><small>Вариант 04</small><h2>Текстильная мозаика</h2><p class="mood">Смело и современно.</p><p>Белый фон и терракотовые акценты, ткани складываются в коллаж. Шесть коллекций, выбор оттенка и своя подборка.</p><strong>Открыть макет ↗</strong></div>
       </a>
       <a href="v5/?intro=1">
         <img src="review-assets/fabric-album.jpg" alt="Разворот альбома: все коллекции образцами и содержание по разделам">
